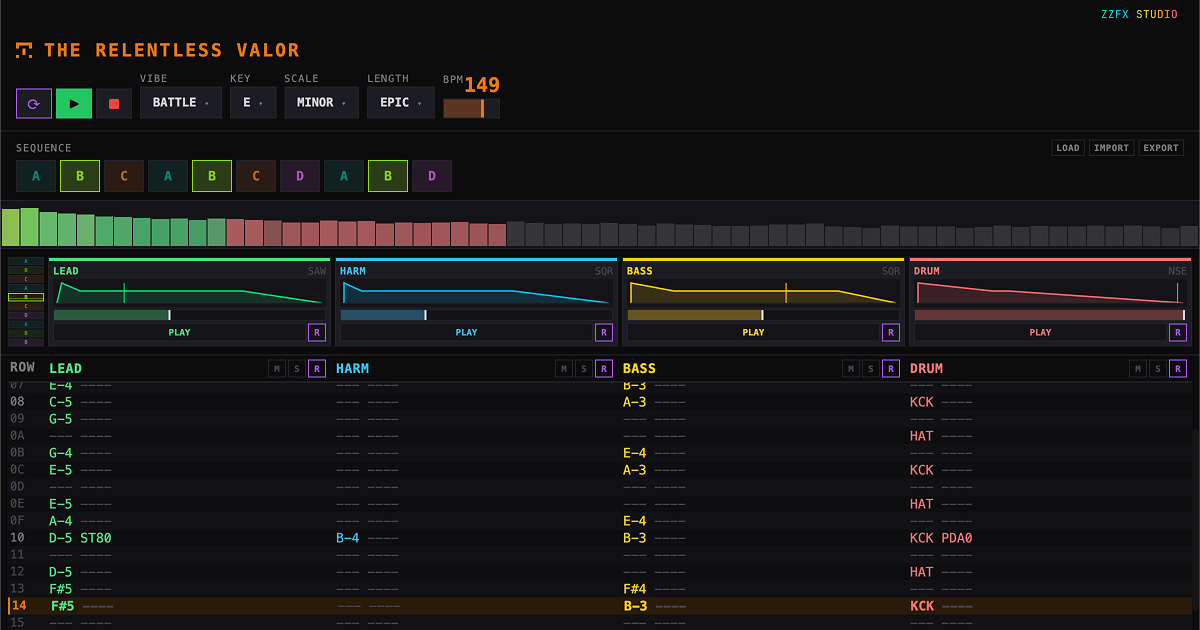
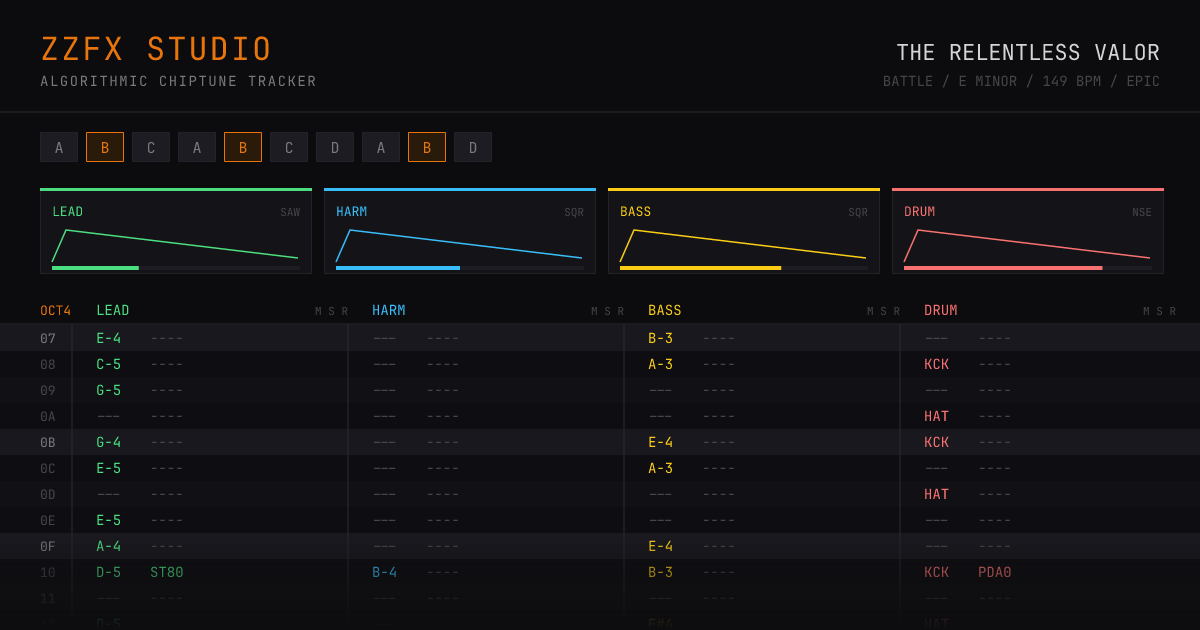
fix(web): make link unfurls actually work, and generate the OG card
og:image and twitter:image were relative paths. Crawlers do not resolve
those, so every shared link unfurled with no image at all. They are
absolute now, pointing at tjw.dev/zzfx-studio/ — the CNAME the site
actually serves from, not the github.io host. Adds og:url, og:site_name,
image type and dimensions, alt text, and a canonical link.

The OG card is now generated rather than screenshotted. The previous one
was a screen capture that went stale the moment the grid header changed,
and nothing caught it. scripts/generate-og-image.ts draws the card as SVG
from the same palette the app uses and rasterises it with resvg, using
the JetBrains Mono already in assets, so `pnpm run og` reproduces it
whenever the UI moves on. Half the file size of the capture it replaces.

diff --git a/apps/zzfx-studio/scripts/generate-og-image.ts b/apps/zzfx-studio/scripts/generate-og-image.ts
@@ -1,0 +1,173 @@
+/**
+ * Renders public/og-image.png — the card that appears when a link to the app
+ * is shared.
+ *
+ * It is generated rather than screenshotted so it can be re-run when the UI
+ * changes. The previous hand-captured image went stale the moment the grid
+ * header changed, and nothing caught it.
+ *
+ *   pnpm run og
+ */
+import { statSync, writeFileSync } from 'node:fs';
+import { dirname, resolve } from 'node:path';
+import { fileURLToPath } from 'node:url';
+import { Resvg } from '@resvg/resvg-js';
+
+const here = dirname(fileURLToPath(import.meta.url));
+const root = resolve(here, '..');
+
+const W = 1200;
+const H = 630;
+
+const C = {
+  bg: '#0C0C0E',
+  surface: '#141418',
+  elevated: '#1C1C22',
+  row: '#111115',
+  rowAlt: '#0E0E12',
+  beat: '#18181E',
+  cursor: '#2A1A0A',
+  borderSubtle: '#222228',
+  borderTrack: '#2A2A32',
+  textPrimary: '#D4D4D8',
+  textSecondary: '#78787E',
+  textDim: '#44444A',
+  accent: '#E8740E',
+  ch: ['#4ADE80', '#38BDF8', '#FACC15', '#F87171'],
+};
+
+const FONT = 'JetBrains Mono';
+const esc = (s: string) => s.replace(/&/g, '&amp;').replace(/</g, '&lt;').replace(/>/g, '&gt;');
+
+const parts: string[] = [];
+const rect = (x: number, y: number, w: number, h: number, fill: string) =>
+  parts.push(`<rect x="${x}" y="${y}" width="${w}" height="${h}" fill="${fill}"/>`);
+const stroke = (x: number, y: number, w: number, h: number, col: string) =>
+  parts.push(`<rect x="${x + 0.5}" y="${y + 0.5}" width="${w - 1}" height="${h - 1}" fill="none" stroke="${col}"/>`);
+const line = (x1: number, y1: number, x2: number, y2: number, col: string) =>
+  parts.push(`<line x1="${x1}" y1="${y1}" x2="${x2}" y2="${y2}" stroke="${col}" stroke-width="1"/>`);
+const text = (
+  s: string, x: number, y: number, fill: string, size: number,
+  opts: { weight?: number; anchor?: 'start' | 'middle' | 'end'; spacing?: number } = {}
+) =>
+  parts.push(
+    `<text x="${x}" y="${y}" fill="${fill}" font-family="${FONT}" font-size="${size}" ` +
+    `font-weight="${opts.weight ?? 400}" text-anchor="${opts.anchor ?? 'start'}"` +
+    (opts.spacing ? ` letter-spacing="${opts.spacing}"` : '') +
+    `>${esc(s)}</text>`
+  );
+
+// --- backdrop ---------------------------------------------------------------
+rect(0, 0, W, H, C.bg);
+
+// --- header -----------------------------------------------------------------
+text('ZZFX STUDIO', 40, 60, C.accent, 32, { weight: 700, spacing: 2 });
+text('ALGORITHMIC CHIPTUNE TRACKER', 40, 86, C.textSecondary, 14, { spacing: 1.5 });
+text('THE RELENTLESS VALOR', W - 40, 60, C.textPrimary, 22, { weight: 700, anchor: 'end' });
+text('BATTLE / E MINOR / 149 BPM / EPIC', W - 40, 86, C.textDim, 14, { anchor: 'end' });
+line(0, 112, W, 112, C.borderTrack);
+
+// --- sequence strip ---------------------------------------------------------
+const SEQ = ['A', 'B', 'C', 'A', 'B', 'C', 'D', 'A', 'B', 'D'];
+SEQ.forEach((label, i) => {
+  const x = 40 + i * 46;
+  const y = 132;
+  const on = i === 1 || i === 4 || i === 8;
+  rect(x, y, 38, 30, on ? C.cursor : C.elevated);
+  stroke(x, y, 38, 30, on ? C.accent : C.borderSubtle);
+  text(label, x + 19, y + 21, on ? C.accent : C.textSecondary, 15, { weight: 700, anchor: 'middle' });
+});
+
+// --- per-channel panels -----------------------------------------------------
+const NAMES = ['LEAD', 'HARM', 'BASS', 'DRUM'];
+const SHAPES = ['SAW', 'SQR', 'SQR', 'NSE'];
+const PW = 272;
+const PY = 188;
+const PH = 86;
+NAMES.forEach((name, i) => {
+  const x = 40 + i * (PW + 12);
+  rect(x, PY, PW, PH, C.surface);
+  stroke(x, PY, PW, PH, C.borderSubtle);
+  rect(x, PY, PW, 3, C.ch[i]);
+  text(name, x + 12, PY + 28, C.ch[i], 13, { weight: 700 });
+  text(SHAPES[i], x + PW - 12, PY + 28, C.textDim, 11, { anchor: 'end' });
+  // A decay envelope: attack spike, then a long fall.
+  const pts = [`${x + 12},${PY + 74}`, `${x + 26},${PY + 42}`, `${x + PW - 14},${PY + 70}`];
+  parts.push(
+    `<polyline points="${pts.join(' ')}" fill="none" stroke="${C.ch[i]}" stroke-width="1.5"/>`
+  );
+  rect(x + 12, PY + 78, PW - 24, 4, C.elevated);
+  rect(x + 12, PY + 78, (PW - 24) * (0.35 + i * 0.15), 4, C.ch[i]);
+});
+
+// --- tracker grid -----------------------------------------------------------
+const GY = 296;
+const ROW_H = 26;
+const ROWS = 13;
+const COL_X = [96, 372, 648, 924];
+const COL_W = 268;
+
+text('OCT4', 40, GY + 19, C.accent, 13, { weight: 700 });
+NAMES.forEach((name, i) => {
+  text(name, COL_X[i], GY + 19, C.ch[i], 14, { weight: 700 });
+  text('M S R', COL_X[i] + COL_W - 16, GY + 19, C.textDim, 11, { anchor: 'end' });
+});
+line(0, GY + 28, W, GY + 28, C.borderTrack);
+
+const NOTES = [
+  ['E-4', 'C-5', 'G-5', '---', 'G-4', 'E-5', '---', 'E-5', 'A-4', 'D-5', '---', 'D-5', 'F#5'],
+  ['---', '---', '---', '---', '---', '---', '---', '---', '---', 'B-4', '---', '---', '---'],
+  ['B-3', 'A-3', '---', '---', 'E-4', 'A-3', '---', '---', 'E-4', 'B-3', '---', 'F#4', 'B-3'],
+  ['---', 'KCK', '---', 'HAT', 'KCK', '---', 'HAT', '---', '---', 'KCK', '---', 'HAT', 'KCK'],
+];
+const FX: Record<number, Record<number, string>> = {
+  0: { 9: 'ST80' },
+  3: { 9: 'PDA0' },
+};
+
+for (let r = 0; r < ROWS; r++) {
+  const y = GY + 29 + r * ROW_H;
+  const isBeat = r % 4 === 0;
+  const isPlayhead = r === 12;
+  rect(0, y, W, ROW_H, isPlayhead ? C.cursor : isBeat ? C.beat : r % 2 ? C.rowAlt : C.row);
+  if (isPlayhead) rect(0, y, 3, ROW_H, C.accent);
+
+  text((r + 7).toString(16).toUpperCase().padStart(2, '0'), 40, y + 18,
+    isPlayhead ? C.accent : isBeat ? C.textSecondary : C.textDim, 13);
+
+  for (let ch = 0; ch < 4; ch++) {
+    const note = NOTES[ch][r];
+    text(note, COL_X[ch], y + 18, note === '---' ? C.textDim : C.ch[ch], 14,
+      { weight: isPlayhead ? 700 : 400 });
+    const fx = FX[ch]?.[r];
+    text(fx ?? '----', COL_X[ch] + 54, y + 18, fx ? C.ch[ch] : C.textDim, 14);
+  }
+}
+for (const x of COL_X) line(x - 24, GY + 28, x - 24, H, C.borderTrack);
+
+// Let the grid run off the bottom edge rather than stopping dead.
+parts.push(
+  `<defs><linearGradient id="fade" x1="0" y1="0" x2="0" y2="1">` +
+  `<stop offset="0" stop-color="${C.bg}" stop-opacity="0"/>` +
+  `<stop offset="1" stop-color="${C.bg}" stop-opacity="1"/></linearGradient></defs>` +
+  `<rect x="0" y="${H - 96}" width="${W}" height="96" fill="url(#fade)"/>`
+);
+
+const svg =
+  `<svg xmlns="http://www.w3.org/2000/svg" width="${W}" height="${H}" viewBox="0 0 ${W} ${H}">` +
+  parts.join('') +
+  `</svg>`;
+
+const resvg = new Resvg(svg, {
+  fitTo: { mode: 'width', value: W },
+  font: {
+    fontFiles: [resolve(root, 'assets/JetBrainsMono-Regular.ttf')],
+    loadSystemFonts: true,
+    defaultFontFamily: FONT,
+  },
+});
+
+const out = resolve(root, 'public/og-image.png');
+writeFileSync(out, resvg.render().asPng());
+
+console.log(`og-image.png  ${W}x${H}  ${Math.round(statSync(out).size / 1024)} KB`);

diff --git a/apps/zzfx-studio/public/index.html b/apps/zzfx-studio/public/index.html
@@ -5,7 +5,8 @@
     <meta httpEquiv="X-UA-Compatible" content="IE=edge" />
     <meta name="viewport" content="width=device-width, initial-scale=1, shrink-to-fit=no" />
     <title>ZzFX Studio</title>
-    <meta name="description" content="Algorithmic chiptune tracker — generate 4-channel retro songs instantly. No AI, pure math." />
+    <meta name="description" content="Algorithmic chiptune tracker — generate, edit and share 4-channel retro songs instantly. No AI, pure math." />
+    <link rel="canonical" href="https://tjw.dev/zzfx-studio/" />
     <meta name="theme-color" content="#0C0C0E" />
 
     <!-- PWA -->
@@ -20,19 +21,28 @@
     <meta name="apple-mobile-web-app-status-bar-style" content="black-translucent" />
     <meta name="apple-mobile-web-app-title" content="ZzFX Studio" />
 
-    <!-- Open Graph -->
+    <!-- Open Graph.
+         These URLs must be absolute: crawlers do not resolve relative paths,
+         and a relative og:image means no preview image at all. They point at
+         the deployed site even from a local build, because that is the URL a
+         crawler will actually fetch. -->
     <meta property="og:type" content="website" />
-    <meta property="og:title" content="ZzFX Studio" />
-    <meta property="og:description" content="Algorithmic chiptune tracker — generate 4-channel retro songs instantly. No AI, pure math." />
-    <meta property="og:image" content="og-image.png" />
+    <meta property="og:site_name" content="ZzFX Studio" />
+    <meta property="og:url" content="https://tjw.dev/zzfx-studio/" />
+    <meta property="og:title" content="ZzFX Studio — algorithmic chiptune tracker" />
+    <meta property="og:description" content="Algorithmic chiptune tracker — generate, edit and share 4-channel retro songs instantly. No AI, pure math." />
+    <meta property="og:image" content="https://tjw.dev/zzfx-studio/og-image.png" />
+    <meta property="og:image:type" content="image/png" />
     <meta property="og:image:width" content="1200" />
     <meta property="og:image:height" content="630" />
+    <meta property="og:image:alt" content="The ZzFX Studio tracker: four colour-coded channels of note data over a dark grid, with waveform displays and a pattern sequence." />
 
     <!-- Twitter -->
     <meta name="twitter:card" content="summary_large_image" />
-    <meta name="twitter:title" content="ZzFX Studio" />
-    <meta name="twitter:description" content="Algorithmic chiptune tracker — generate 4-channel retro songs instantly." />
-    <meta name="twitter:image" content="og-image.png" />
+    <meta name="twitter:title" content="ZzFX Studio — algorithmic chiptune tracker" />
+    <meta name="twitter:description" content="Algorithmic chiptune tracker — generate, edit and share 4-channel retro songs instantly. No AI, pure math." />
+    <meta name="twitter:image" content="https://tjw.dev/zzfx-studio/og-image.png" />
+    <meta name="twitter:image:alt" content="The ZzFX Studio tracker grid, four colour-coded channels over a dark background." />
 
     <style id="expo-reset">
       html,
